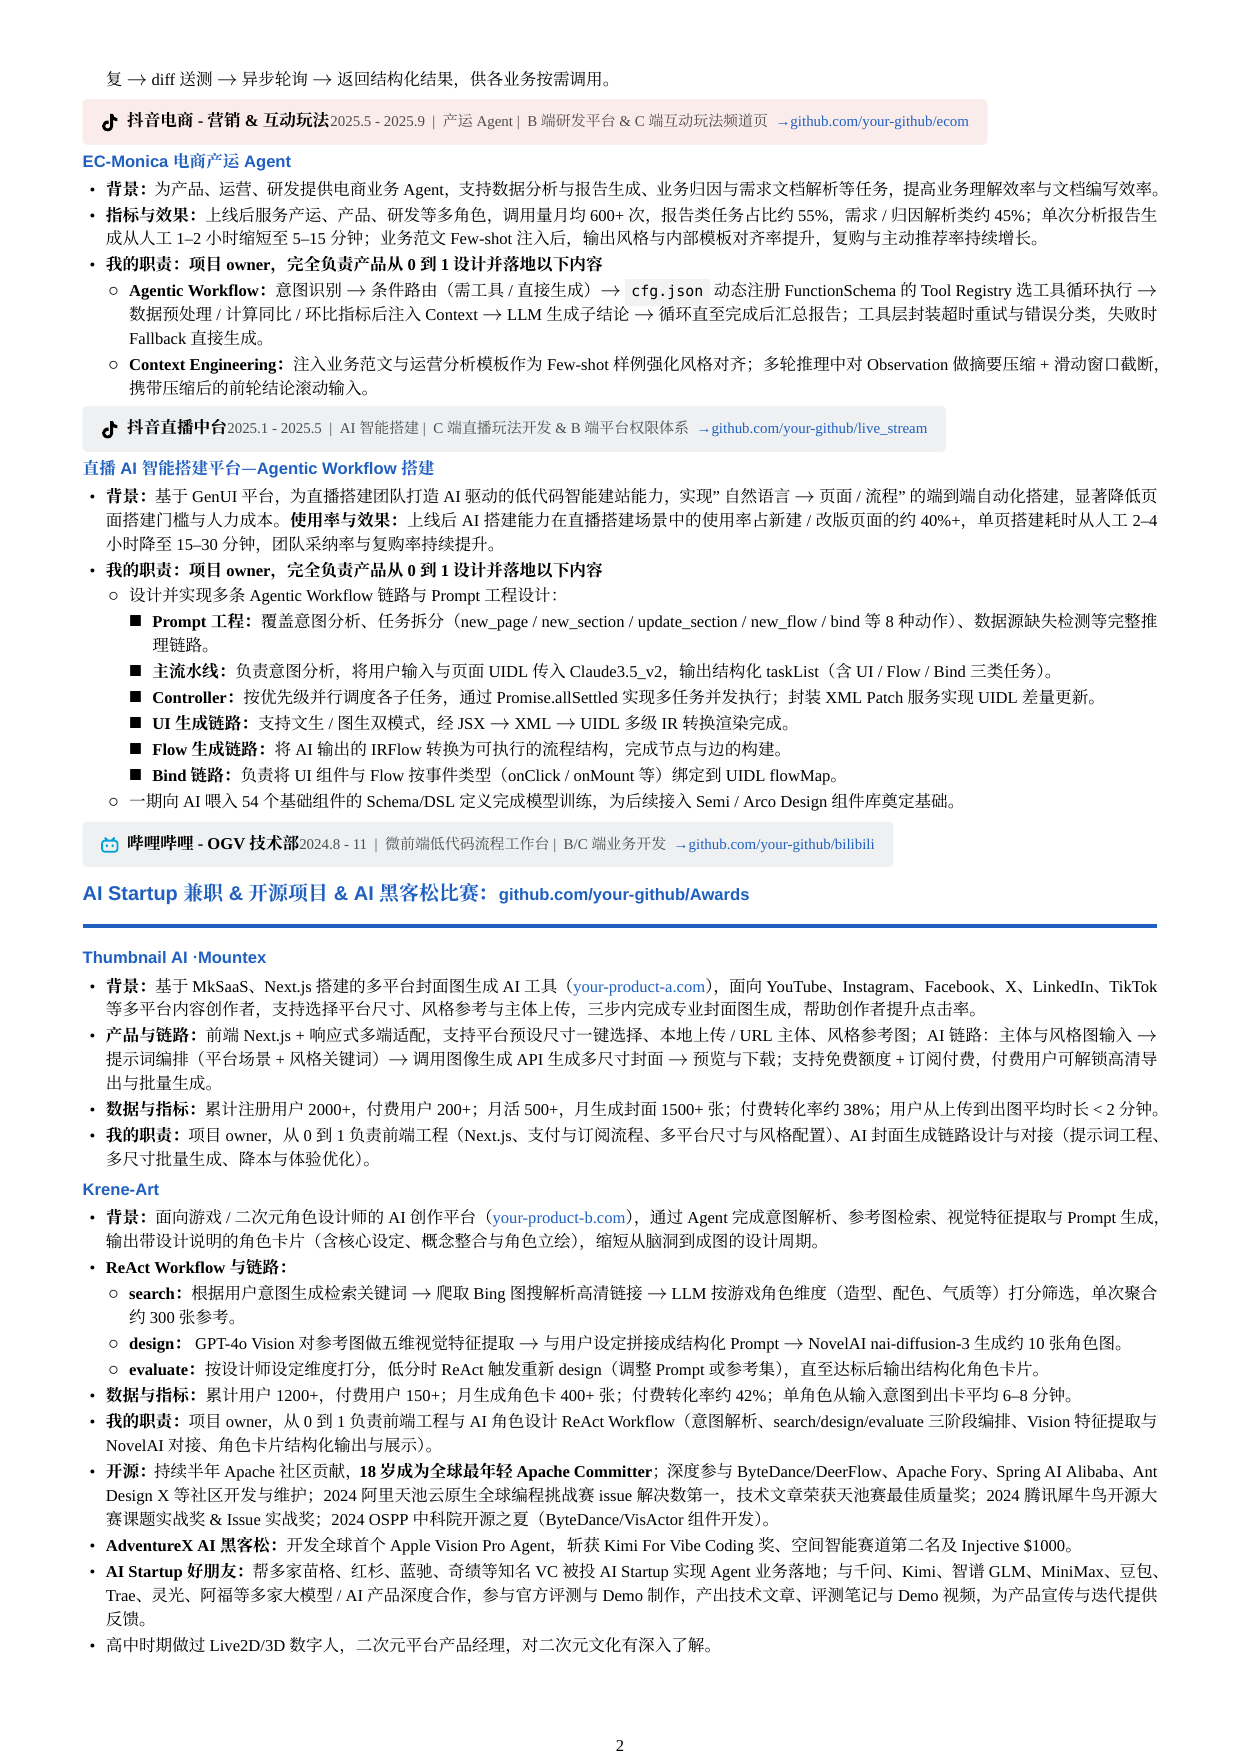
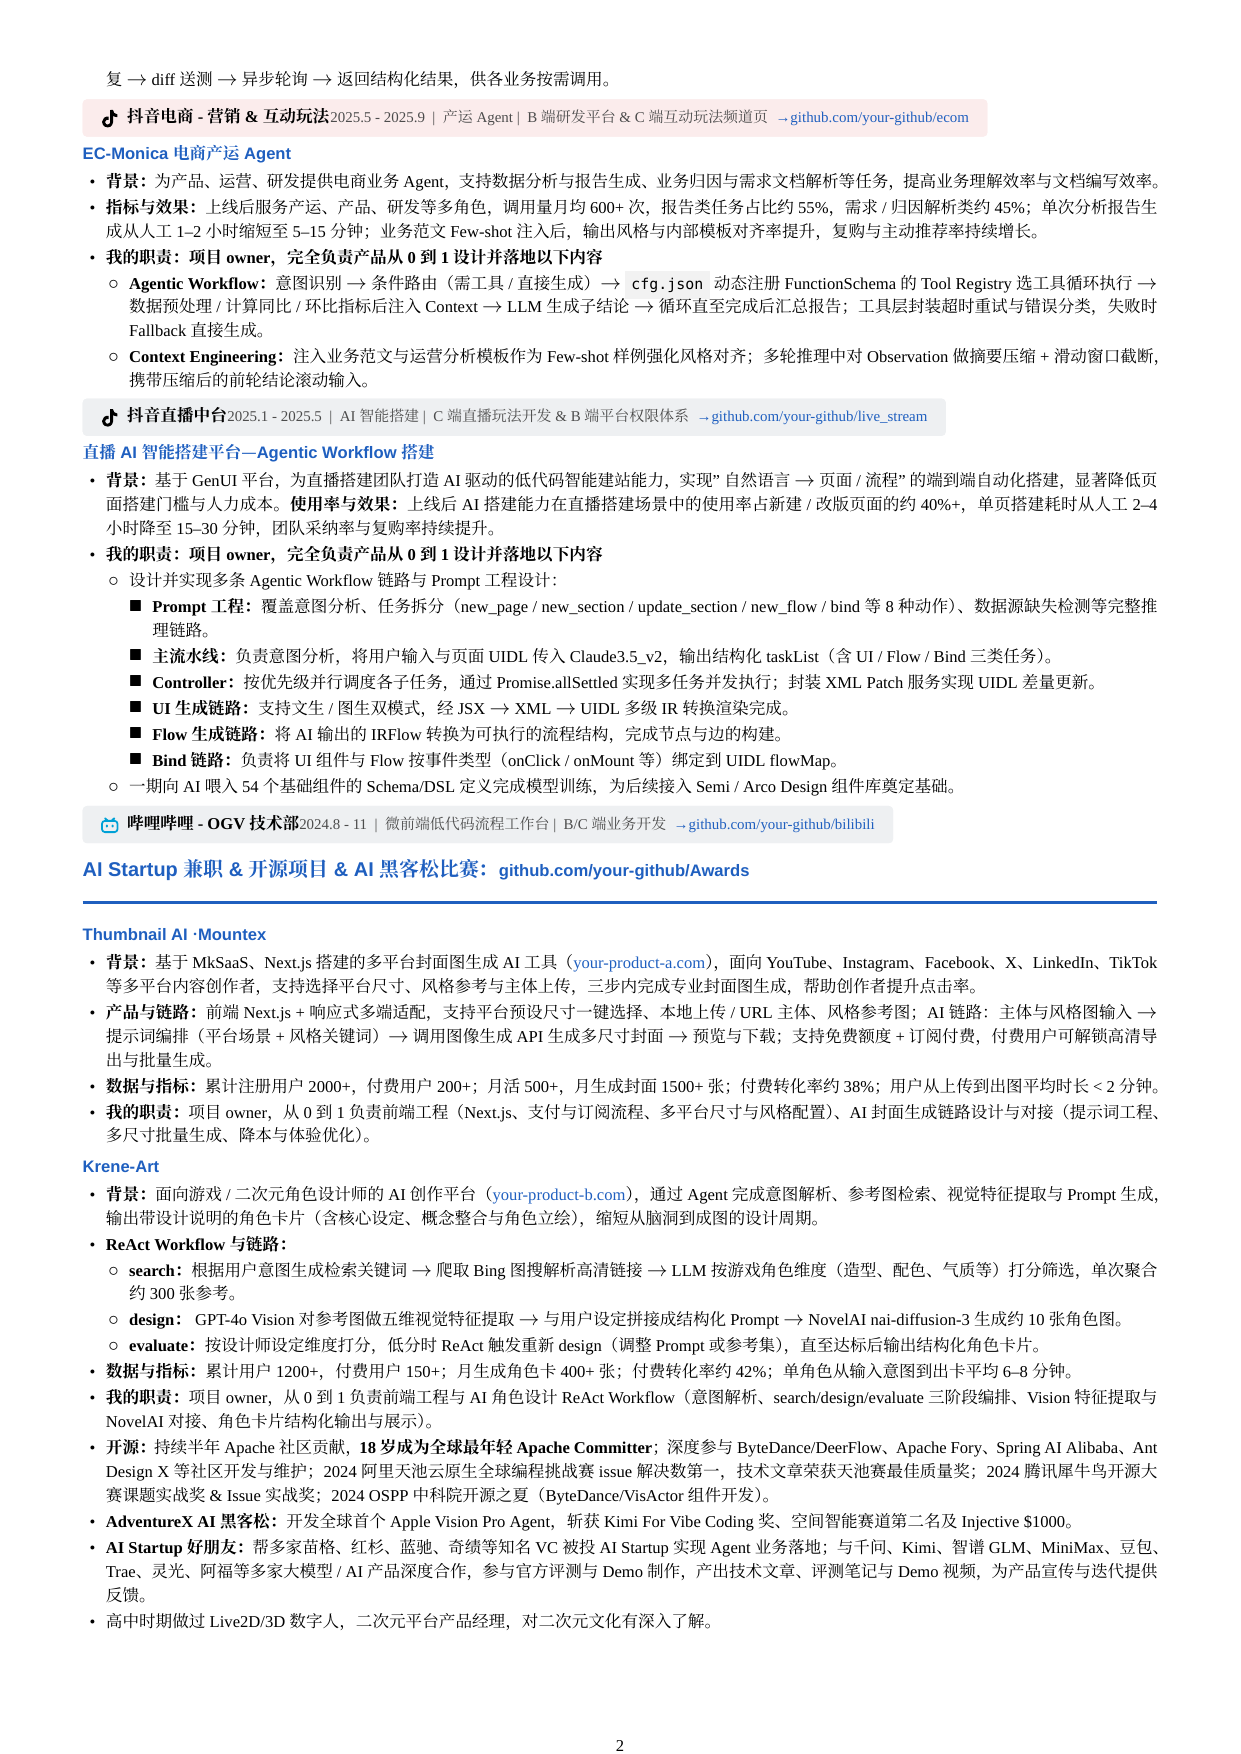
style: 色块压矮贴合图标 + 修正 Skill 定位为「适配进本模板+排版调优+按范式书写」
- \barbox 上下内边距 3.5pt→1.6pt，色块刚好覆盖图标高度
- 重编译 resume_template.pdf（仍 2 页）并同步到 resume/ 与 resume-forge/template/
- 更新 docs/preview-1,2.png
- README/SKILL 修正：不是「把简历抽象成空模板」，而是把任意来源的简历内容迁移进本模板、调排版、按范式写清楚

Changed region(s): [[0.0612, 0.0616, 0.9492, 0.9544]]

diff --git a/resume-forge/template/resume_template.tex b/resume-forge/template/resume_template.tex
@@ -63,7 +63,7 @@
 % ---- 蓝色项目标题(带下划线) ----
 \newcommand{\ptitle}[1]{\vspace{2pt}\par{\color{accent}\sffamily\bfseries #1}\par\vspace{1pt}}
 % ---- 项目头色块:纯色填充、无外边框、微圆角 ----
-\newtcbox{\barbox}[1][barbg]{on line, boxrule=0pt, frame hidden, colback=#1, colframe=#1, arc=2pt, outer arc=2pt, left=6pt,right=6pt,top=3.5pt,bottom=3.5pt, width=\linewidth, halign=flush left, before skip=0pt, after skip=0pt}
+\newtcbox{\barbox}[1][barbg]{on line, boxrule=0pt, frame hidden, colback=#1, colframe=#1, arc=2pt, outer arc=2pt, left=6pt,right=6pt,top=1.6pt,bottom=1.6pt, width=\linewidth, halign=flush left, before skip=0pt, after skip=0pt}
 \newcommand{\cbar}[4][barbg]{\vspace{4pt}\barbox[#1]{#2\; \textbf{#3}\hfill {\small\color{gray!140} #4}}\vspace{2pt}\par}
 % ---- 真 logo(素材库在 assets/logos/*.pdf,矢量) ----
 \graphicspath{{assets/logos/}}

diff --git a/resume/resume_template.tex b/resume/resume_template.tex
@@ -63,7 +63,7 @@
 % ---- 蓝色项目标题(带下划线) ----
 \newcommand{\ptitle}[1]{\vspace{2pt}\par{\color{accent}\sffamily\bfseries #1}\par\vspace{1pt}}
 % ---- 项目头色块:纯色填充、无外边框、微圆角 ----
-\newtcbox{\barbox}[1][barbg]{on line, boxrule=0pt, frame hidden, colback=#1, colframe=#1, arc=2pt, outer arc=2pt, left=6pt,right=6pt,top=3.5pt,bottom=3.5pt, width=\linewidth, halign=flush left, before skip=0pt, after skip=0pt}
+\newtcbox{\barbox}[1][barbg]{on line, boxrule=0pt, frame hidden, colback=#1, colframe=#1, arc=2pt, outer arc=2pt, left=6pt,right=6pt,top=1.6pt,bottom=1.6pt, width=\linewidth, halign=flush left, before skip=0pt, after skip=0pt}
 \newcommand{\cbar}[4][barbg]{\vspace{4pt}\barbox[#1]{#2\; \textbf{#3}\hfill {\small\color{gray!140} #4}}\vspace{2pt}\par}
 % ---- 真 logo(素材库在 assets/logos/*.pdf,矢量) ----
 \graphicspath{{assets/logos/}}

diff --git a/resume-forge/SKILL.md b/resume-forge/SKILL.md
@@ -1,21 +1,21 @@
 ---
 name: resume-forge
 description: >-
-  Reformat any resume into a clean, logo-rich LaTeX template AND polish its
-  language using distilled principles from a top-tier tech/AI resume. Use when
-  the user wants to (1) convert a resume (PDF / docx / text / screenshot) into a
-  reusable LaTeX template with 1:1 layout fidelity, (2) migrate their content
-  into this template, (3) anonymize/desensitize a resume, or (4) improve/polish
-  resume wording. Ships a ready LaTeX template, a company-logo asset library, and
-  helper scripts.
+  Adapt ANY existing resume (in any format/template — PDF / docx / text /
+  screenshot) INTO this polished LaTeX resume template: migrate the content,
+  fix the typesetting to a clean 2-page layout, and rewrite the wording to be
+  clear and concise following this template's proven writing method. Also
+  supports polishing and desensitizing. Use when the user gives a resume and
+  wants it re-typeset into this template / made cleaner / anonymized. Ships the
+  ready LaTeX template, a company-logo asset library, and helper scripts.
 ---
 
-# resume-forge — 把简历改造成模板 + 润色成好简历
+# resume-forge — 把任意简历适配进本模板 + 排版调优 + 按范式写清楚
 
-这个 Skill 把"写出一份强技术简历"的能力工程化。三种用法可单独或组合使用：
+这个 Skill 做的**不是**"把某份简历抽象成一个空模板"，而是：**把用户手上任意来源、任意模板的简历内容，迁移进本仓库这套精排模板里**，调好排版，并按这套模板的写法把内容写得**清晰明了**。三种用法可单独或组合：
 
-1. **改造迁移模板**：任意简历（PDF/docx/文本/截图）→ 1:1 版式的 LaTeX 模板。
-2. **润色**：按 `PRINCIPLES.md` 提升语言（量化、owner 化、机制化、去水分），**只改措辞不动事实**。
+1. **内容适配到本模板**：任意简历（PDF/docx/文本/截图）→ 用本模板重新精排（同一套版式：蓝色小节、无边框色块、真 logo、内联代码框），排到干净的 2 页。
+2. **按范式书写 / 润色**：套用 `PRINCIPLES.md` 的强简历写法（量化、owner 化、给机制、命名概念、去水分），把原内容改写得清晰明了——**只改措辞不动事实**。
 3. **脱敏**：把姓名/电话/邮箱/微信/GitHub 号/学校/个人域名换成顶部占位符或虚构值。
 
 核心资产：

diff --git a/README.md b/README.md
@@ -2,7 +2,7 @@
 
 开源两样东西：
 1. **`resume/`** — 一份 1:1 精排的中文技术简历 LaTeX 模板（脱敏/虚构信息版，含真公司 logo、超链接、配色）。
-2. **`resume-forge/`** — 一个 Claude Code **Skill**，把"改造简历成模板 / 语言润色 / 脱敏"的能力工程化。
+2. **`resume-forge/`** — 一个 Claude Code **Skill**：把你手上**任意来源、任意模板**的简历内容，迁移进这套精排模板里，**调好排版**，并按这套模板的写法把内容写得**清晰明了**（附带润色与脱敏）。
 
 ## 效果预览
 
@@ -24,7 +24,7 @@ tectonic resume_template.tex          # 或 xelatex
 
 ## 用 Skill（Claude Code）
 把 `resume-forge/` 放进 `~/.claude/skills/`（或作为 plugin）。之后对 Claude 说：
-- "把这份简历做成 LaTeX 模板 / 1:1 复刻 / 脱敏" → 走**改造迁移**流程。
+- "把我这份简历（任意格式/模板）适配进这个模板 / 1:1 复刻 / 脱敏" → 走**内容迁移 + 排版调优**流程。
 - "润色我的简历" → 按 `resume-forge/PRINCIPLES.md`（强简历十条原则）改，**只改措辞不动事实**。
 
 ## 内容
